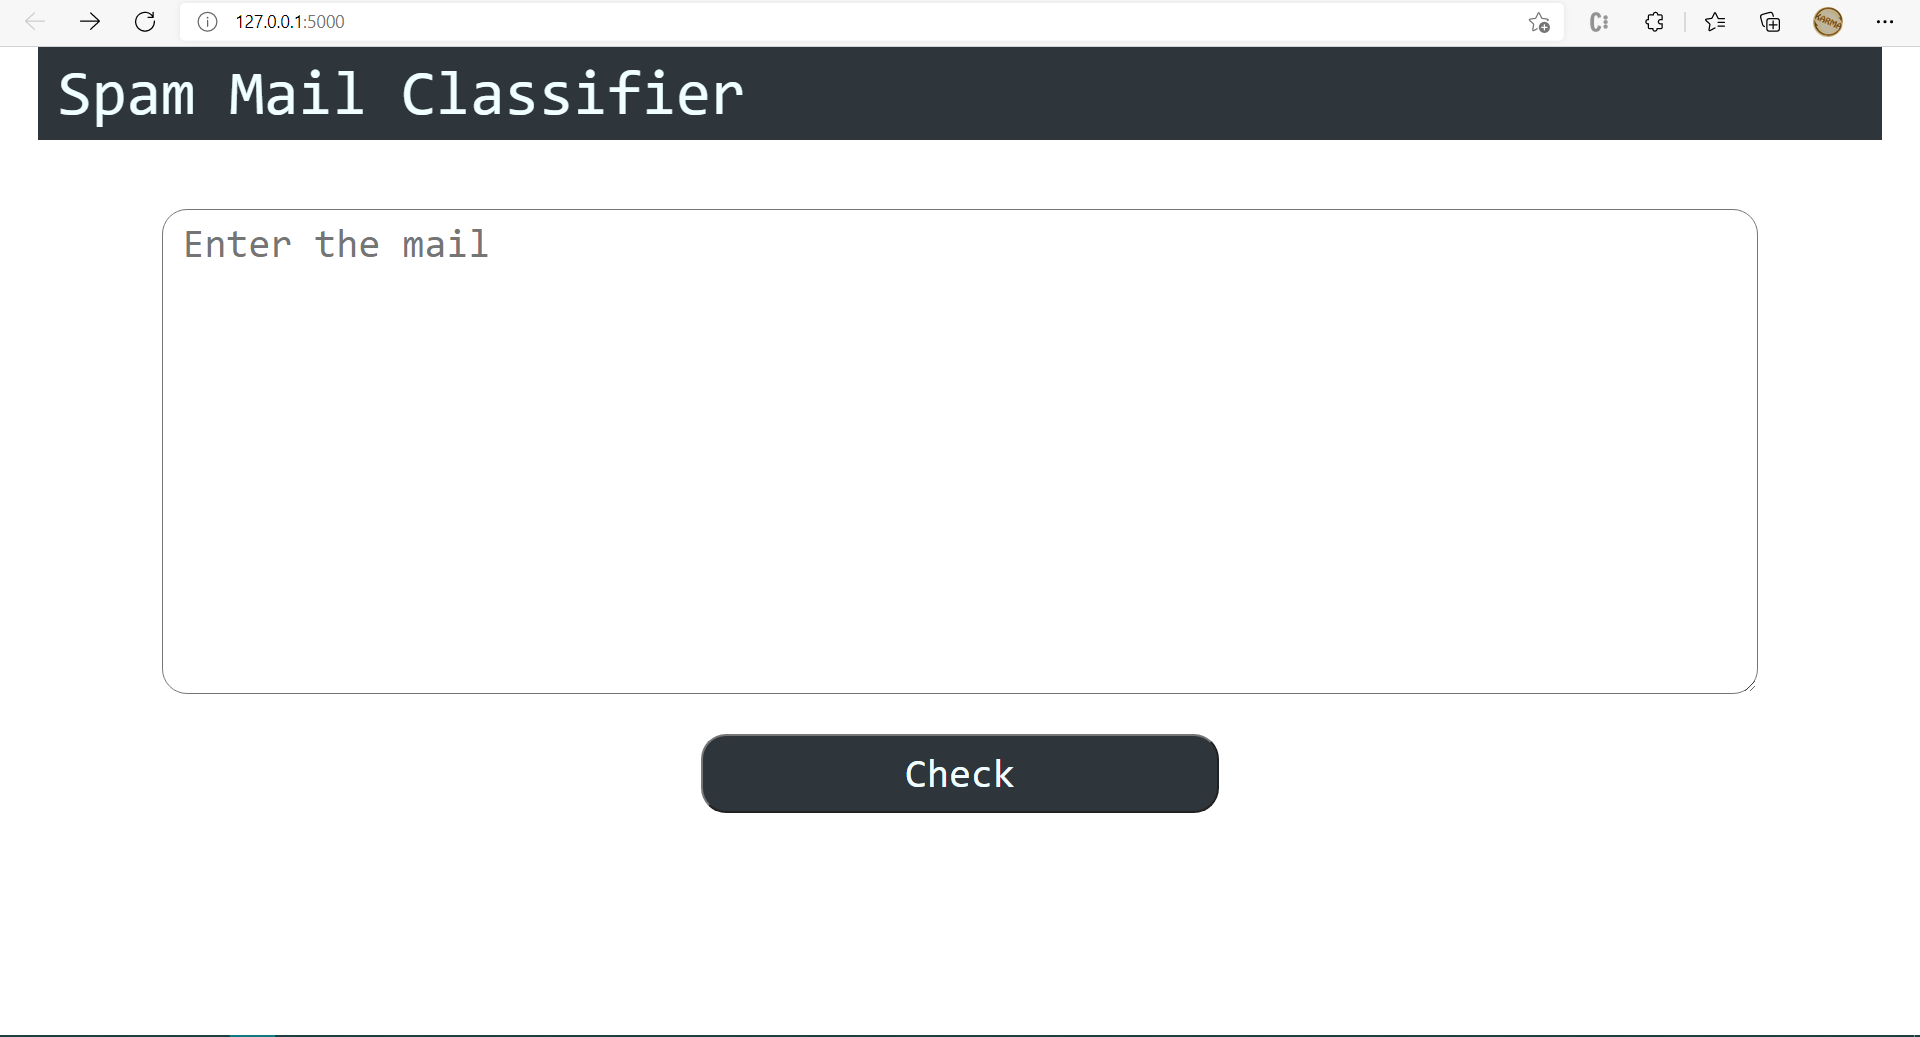
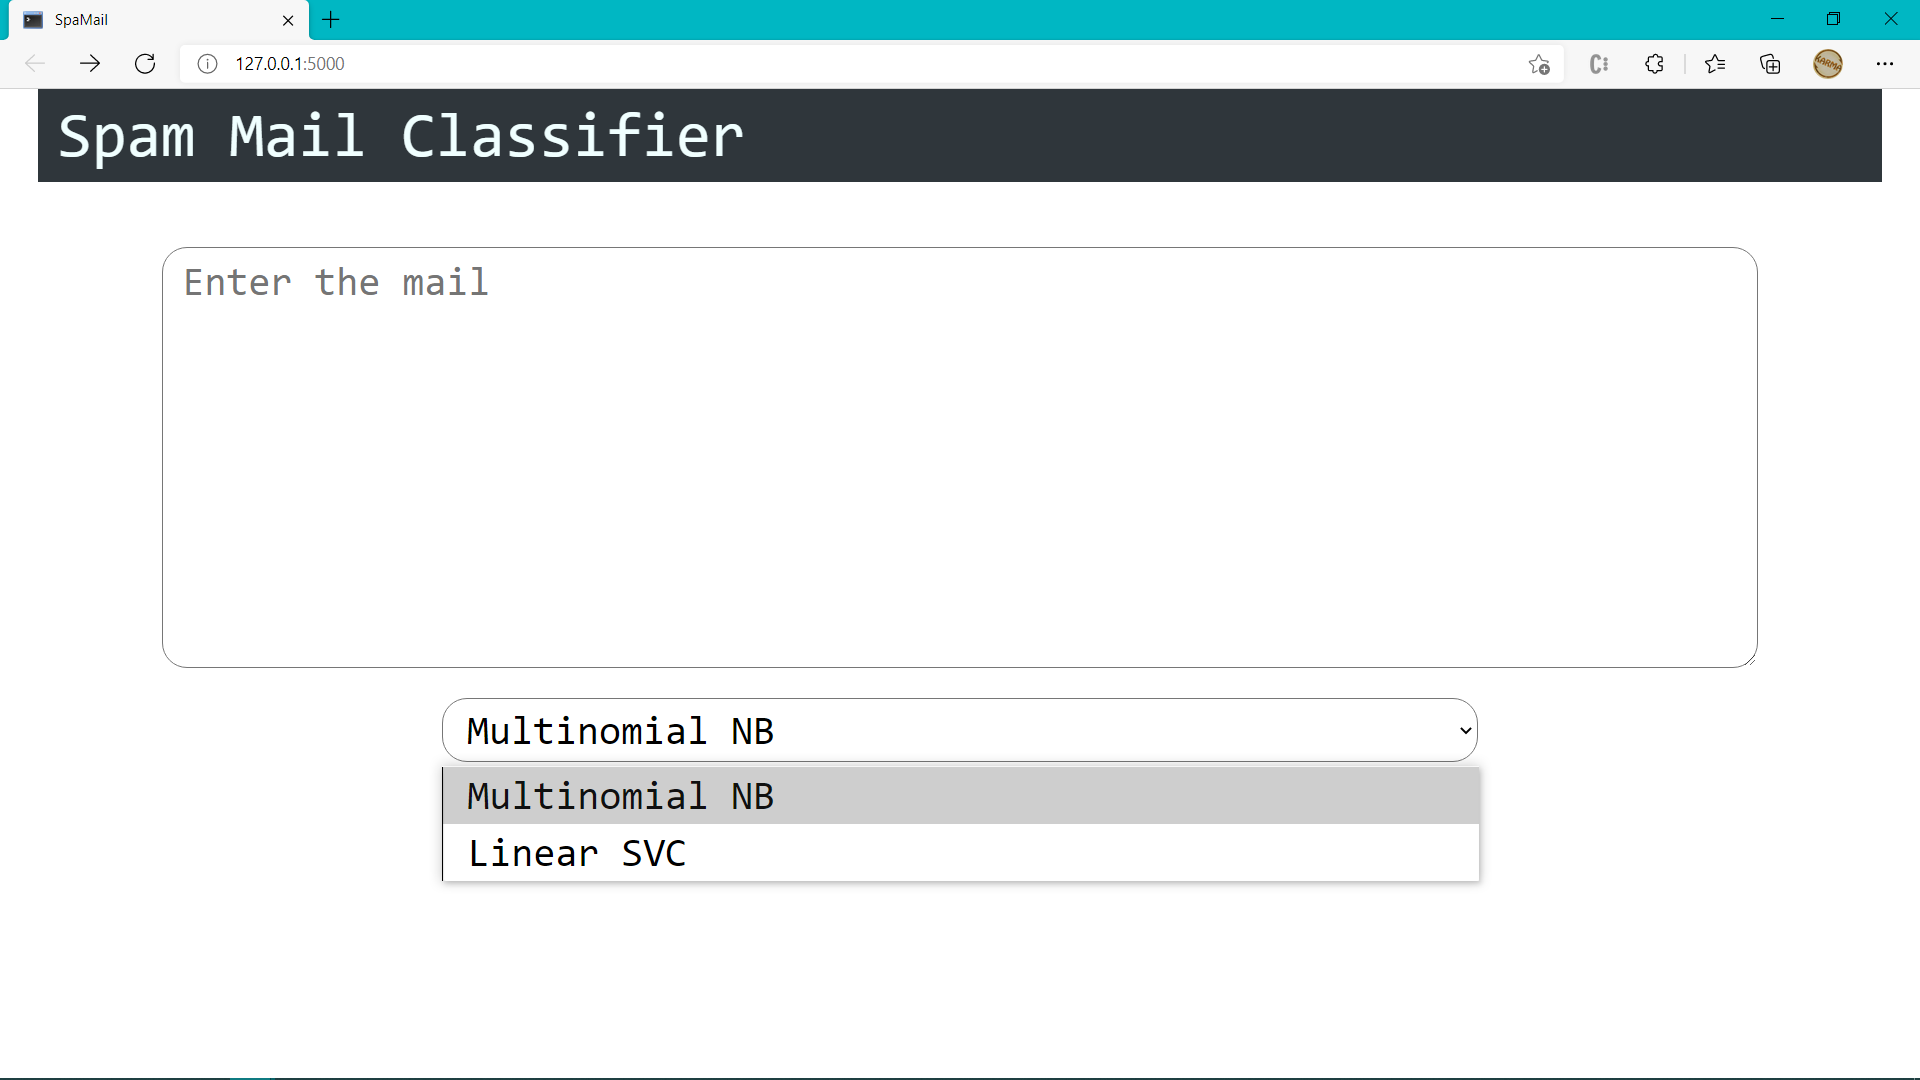
multiple model in dropdown

Changed region(s): [[0.0, 0.0, 1.0, 0.1851], [0.2188, 0.6172, 0.7812, 0.8332], [0.0938, 0.216, 0.25, 0.2777]]

diff --git a/static/css/home.css b/static/css/home.css
@@ -27,7 +27,7 @@
 }
 
 .mail > textarea {
-  flex: 0.75;
+  flex: 0.65;
   width: 90%;
   padding: 1vh 1vw;
   font-family: monospace;
@@ -43,8 +43,17 @@
   display: none;
 }
 
+.mail > select {
+  flex: 0.1;
+  width: 60%;
+  padding: 0 1vw;
+  font-family: monospace;
+  font-size: 32px;
+  border-radius: 20px;
+}
+
 .mail > button {
-  flex: 0.12;
+  flex: 0.1;
   width: 30%;
   font-family: monospace;
   background-color: rgb(47, 54, 59);
@@ -54,21 +63,35 @@
 }
 
 .hamspam {
-  color: azure;
   font-family: monospace;
-  width: 50%;
-  margin: 2vh 25vw;
+  height: 13vh;
+  display: flex;
+  flex-direction: column;
+  justify-content: space-between;
+  align-items: center;
+  margin: 2vh 2vw;
   text-align: center;
   font-size: 32px;
 }
 
+.ta {
+  flex: 0.45;
+  font-size: 32px;
+}
+
 .ham {
+  flex: 0.45;
+  color: azure;
+  width: 50%;
   background-color: rgb(19, 218, 78);
   padding: 1vh 1vw;
   border-radius: 20px;
 }
 
 .spam {
+  flex: 0.4;
+  color: azure;
+  width: 50%;
   background-color: rgb(218, 26, 19);
   padding: 1vh 1vw;
   border-radius: 20px;

diff --git a/templates/home.html b/templates/home.html
@@ -11,9 +11,15 @@
     <div class="heading">Spam Mail Classifier</div>
     <form class="mail" method="post">
         <textarea name="mail" id="mail"  placeholder="Enter the mail">{{mail}}</textarea>
+        <select name="model" id="model">
+            <option value=0>Multinomial NB</option>
+            <option value=1>Linear SVC</option>
+        </select>
         <button type="submit">Check</button>
     </form>
+    {% if modelName %}
     <div class="hamspam">
+        <div class="ta">Test accuracy for {{modelName}} : {{ta}}</div>
         {% if ham %}
             <div class="ham">This mail isn't a spam mail.</div>
         {% endif %}
@@ -21,5 +27,6 @@
             <div class="spam">This mail is a spam mail.</div>
         {% endif %}
     </div>
+    {% endif %}
 </body>
 </html>

diff --git a/app.py b/app.py
@@ -1,19 +1,16 @@
-import os
+#import os
 import pickle
-import smtplib
-from dotenv import load_dotenv
+#import smtplib
+#from dotenv import load_dotenv
 from flask import Flask, render_template, request, redirect, url_for
 import pandas as pd
 from sklearn.feature_extraction.text import CountVectorizer
-from sklearn.naive_bayes import MultinomialNB
-from sklearn.model_selection import train_test_split
 #Naive Bayes Classifier
 from sklearn.naive_bayes import MultinomialNB
+from sklearn.svm import LinearSVC
 
+'''
 load_dotenv()
-
-CVNAME = "spamCv.pickle"
-CLFNAME = "spamClfModel.sav"
 
 SENDER = os.getenv("SENDER")
 PASSWORD = os.getenv("PASSWORD")
@@ -28,9 +25,19 @@ MAILATHAM = FROM + "\n" + TO + "\n" + SUBHAM + "\n" + os.getenv("HAM")
 smtpObj = smtplib.SMTP('smtp.gmail.com', 587)
 smtpObj.starttls()
 smtpObj.login(SENDER, PASSWORD)
+'''
+
+CVNAME = "spamCv.pickle"
+MULTINB = "spamClfModel.sav"
+LINSVC = "linearSVC.sav"
 
 cv = pickle.load(open(CVNAME, "rb"))
-clf = pickle.load(open(CLFNAME, "rb"))
+clfMulNB = pickle.load(open(MULTINB, "rb"))
+clfLinSVC = pickle.load(open(LINSVC, "rb"))
+
+models = [clfMulNB, clfLinSVC]
+modelNames = ['Multinomial NB', 'Linear SVC']
+tas = [0.9784688995215312, 0.9814593301435407]
 
 app = Flask(__name__)
 
@@ -38,20 +45,25 @@ app = Flask(__name__)
 def home():
     if request.method == 'POST':
         data = [request.form['mail']]
+        modelIdx = int(request.form['model'])
         vect = cv.transform(data).toarray()
-        idx = clf.predict(vect)[0]
+        idx = models[modelIdx].predict(vect)[0]
         if(idx):
+            '''
             try:
                 smtpObj.sendmail(SENDER, RECEIVER, MAILATSPAM+data[0])
             except Exception as e:
                 print(e)
-            return render_template('home.html', spam=1, mail=data[0])
+            '''
+            return render_template('home.html', spam=1, mail=data[0], ta=tas[modelIdx], modelName=modelNames[modelIdx])
         else:
+            '''
             try:
                 smtpObj.sendmail(SENDER, RECEIVER, MAILATHAM+data[0])
             except Exception as e:
                 print(e)
-            return render_template('home.html', ham=1, mail=data[0])
+            '''
+            return render_template('home.html', ham=1, mail=data[0], ta=tas[modelIdx], modelName=modelNames[modelIdx])
     return render_template('home.html')
 
 @app.errorhandler(404)
@@ -60,4 +72,4 @@ def page_not_found(e):
 
 if __name__ == '__main__':
     app.run(debug=True)
-    smtpObj.quit()
+    #smtpObj.quit()

diff --git a/README.md b/README.md
@@ -19,5 +19,7 @@ Takes the input from the user and results whether the mail is a spam or a ham.
 ## Screenshots
 
 ![Home](static/screenshots/home.png)
-![Ham](static/screenshots/ham.png)
-![Spam](static/screenshots/spam.png)
+![HamLinSVC](static/screenshots/hamLinSVC.png)
+![HamMultiNB](static/screenshots/hamMultiNB.png)
+![SpamLinSVC](static/screenshots/spamLinSVC.png)
+![SpamMultiNB](static/screenshots/spamMultiNB.png)
